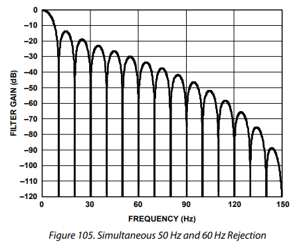
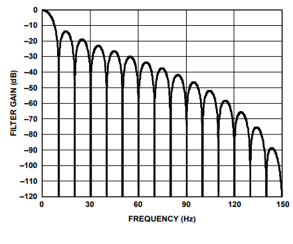
Implement reviewer's suggestions. Remove extraneous text from screenshot.

Changed region(s): [[0.1536, 0.9467, 0.9215, 1.0]]

diff --git a/papers/adi_sdg/adi_scipycon_pynotebook.rst b/papers/adi_sdg/adi_scipycon_pynotebook.rst
@@ -29,14 +29,12 @@ This tutorial is in extension of Converter Connectivity Tutorial [1]_ and associ
 A Generic Mixed Signal Chain
 ----------------------------
 
-Figure :ref:`mixmode` shows a generic signal chain typical of a precision instrumentation application, with a physical input and digital output. 
+Figure :ref:`mixmode` shows a generic signal chain typical of a precision instrumentation application, with a physical input and digital output. There are numerous background references on analog to digital converters available [5]_, and most readers will have a sense that an analog to digital converter samples an input signal at some point in time (or measures the average of a signal over some observation time), and produces a numerical representation of that signal - most often as a binary number with some value between zero and :math:`2^N - 1` where :math:`N` is the number of bits in the output word.
 
 .. figure:: media/mixed_mode_signal_chain.png
 
    In a mixed-mode signal chain, some physical phenomenon such as temperature, light intensity, pH, force, or torque is converted to an electrical parameter (resistance, current, or directly to voltage). This signal is then amplified, low-pass filtered, and digitized by an ADC, which may include internal digital filtering.
    :label:`mixmode`
-
-There are numerous background references on analog to digital converters available [5]_, and most readers will have a sense that an analog to digital converter samples an input signal at some point in time (or measures the average of a signal over some observation time), and produces a numerical representation of that signal - most often as a binary number with some value between zero and :math:`2^N - 1` where :math:`N` is the number of bits in the output word.
 
 ADC Noise Sources
 ---------------------------------------------------------
@@ -61,19 +59,20 @@ Very high resolution converters, such as the AD7124-8 that will be used as an ex
 .. figure:: media/ad7124_histograms.png
    :scale: 75 %
 
-   AD7124 output noise. At a PGA gain of 1 (left), 13 codes are represented, and the standard deviation is about 2.5 codes. While quantization is visible, thermal noise is more significant. At a PGA gain of 128 (right), 187 codes are represented, quantization noise is insignificant. Truncating one or two least-significant bits (doubling or quadrupling quantization noise) would not result in a loss of information. 
+   At a PGA gain of one (left), 13 codes are represented in the AD7124 output noise, and the standard deviation is about 2.5 codes. While quantization is visible, thermal noise is more significant. At a PGA gain of 128 (right), 187 codes are represented, quantization noise is insignificant. Truncating one or two least-significant bits (doubling or quadrupling quantization noise) would not result in a loss of information. 
    :label:`ad7124hist`
 
 Modeling and Measuring ADC noise
 --------------------------------
 
-Modeling the noise of a thermal-noise limited ADC’s is straightforward. If the noise is "well behaved" (Gaussian, as it is in Figure :ref:`ad7124hist`) and constant across the ADC’s input span, the ADC’s time-domain noise can be modelled using Numpy’s [9]_ :code:`random.normal` function , then verified by taking the standard deviation, as seen in the Model Gaussian Noise code block.
+Modeling the noise of a thermal-noise limited ADC’s is straightforward. If the noise is "well behaved" (Gaussian, as it is in Figure :ref:`ad7124hist`) and constant across the ADC’s input span, the ADC’s time-domain noise can be modelled using NumPy’s [9]_ :code:`random.normal` function , then verified by taking the standard deviation, as seen in the Model Gaussian Noise code block.
 
 .. -----------------------------------------------------|
 .. code-block:: python
 
     # Model Gaussian Noise
     # See AD7124 datasheet for noise levels per mode
+    import numpy as np
     offset = 0.000
     rmsnoise = 0.42e-6  # AD7124 noise
     noise = np.random.normal(loc=offset, scale=rmsnoise,
@@ -86,7 +85,7 @@ Figure :ref:`hwsetup` shows the general setup for testing ADC noise and filter r
 .. figure:: media/full_setup_overview.png
    :scale: 35 %
 
-   ADC noise and filter measurement setup. The ADALM2000 (M2K) is a multifunction USB test instrument with two general-purpose analog inputs and two outputs, with sample rates of 100Msps and 150Msps, respectively. A Raspberry Pi 4 running a kernel with AD7124 device driver support acts as a simple bridge between the AD7124 and a host computer.
+   The ADALM2000 is a multifunction USB test instrument with two general-purpose analog inputs and two outputs, with sample rates of 100Msps and 150Msps, respectively. It can be used as a simple signal source for measuring ADC noise bandwidth and filter response. A Raspberry Pi 4 running a kernel with AD7124 device driver support acts as a simple bridge between the AD7124 and a host computer.
    :label:`hwsetup`
 
 The AD7124 device driver falls under the industry-standard IIO framework, which has a well-established software API (including Python bindings). Application code can run locally (on the Raspberry Pi) or on a remote machine via network, serial, or USB connection. Furthermore, the pyadi-iio [10]_ abstraction layer takes care of much of the boilerplate setup required for interfacing with IIO devices, greatly simplifying the software interface. The AD7124-8 Basic Data Capture code block illustrates how to open a connection to the AD7124-8, configure it, capture a block of data, then close the connection.
@@ -117,12 +116,12 @@ The AD7124 device driver falls under the industry-standard IIO framework, which 
   print("A few buffered readings: ", data[:16])
   del my_ad7124  # Clean up
 
-With communication to the AD7124-8 established, an extremely simple, yet extremely useful test can be performed: measuring input noise directly. Simply shorting the input to an ADC and looking at the resulting distribution of ADC codes is a valuable step in characterizing a signal chain design. The AD7124 input is set to unipolar, so only positive values are valid; the test circuit shown in Figure :ref:`ad7124bias` ensures that the input is always positive.
+With communication to the AD7124-8 established, an extremely simple, yet extremely useful test can be performed: measuring input noise directly. Simply shorting the input to an ADC and looking at the resulting distribution of ADC codes is a valuable step in characterizing a signal chain design. The AD7124 input mode is set to unipolar, so only positive values are valid; the test circuit shown in Figure :ref:`ad7124bias` ensures that the input is always positive.
 
 .. figure:: media/ad7124_noise_circuit.png
    :scale: 40 %
 
-   Bias Circuit for input noise measurement. A resistor divider imposes a 1.25mV signal across the AD7124-8's input, overcoming the 15µV maximum offset voltage.
+   A resistor divider is used to generate a 1.25mV bias across the AD7124-8's input, overcoming the 15µV maximum offset voltage and ensuring that ADC readings are always positive.
    :label:`ad7124bias`
 
 Figure :ref:`warmup` shows two, 1024-point measurements. The lower (blue) trace was taken immediately after initially applying power. 
@@ -130,7 +129,7 @@ Figure :ref:`warmup` shows two, 1024-point measurements. The lower (blue) trace 
 .. figure:: media/ad7124_warmup_new.png
    :scale: 40 %
 
-   AD7124-8 Data captures with 1.25mV input. Lower trace shows "wander" after initial power-up. Upper trace shows stable readings after a half-hour warmup time.
+   Two AD7124-8 data captures are taken with a 1.25mV bias applied. The lower trace shows initial drift after power-up as the circuit warms up. The upper trace shows stable readings after a half-hour warmup time.
    :label:`warmup`
 
 The "wandering" can be due to a number of factors - the internal reference warming up, the external resistors warming up (and hence drifting), or parasitic thermocouples, where slightly dissimilar metals will produce a voltage in the presence of thermal gradients. Measured noise after warmup is approximately 565nVRMS - on par with the datasheet noise specification.
@@ -167,7 +166,7 @@ The total noise from Figure :ref:`warmup` after warmup was 565nV at a data rate 
 
 The ADC can now be directly included in the signal chain noise analysis, and leads to a guideline for optimizing the signal chain's gain:
 
-Increase the gain just to the point where the noise density of the last stage before the ADC is a bit higher than that of the ADC, then stop. Don’t bother increasing the signal chain gain any more - you’re just amplifying noise, and decreasing the allowable range of inputs.
+Increase the gain just to the point where the noise density of the last stage before the ADC is a bit higher than that of the ADC, then stop. Don’t bother increasing the signal chain gain any more - you’re just amplifying noise and decreasing the allowable range of inputs.
 
 This runs counter to the conventional wisdom of "filling" the ADC’s input range. There may be benefit to using more of an ADC’s input range if there are steps or discontinuities in the ADC’s transfer function, but for "well behaved" ADCs (most sigma delta ADCs and modern, high-resolution Successive Approximation Register (SAR) ADCs), optimizing by noise is the preferred approach.
 
@@ -180,7 +179,7 @@ The AD7124-8 is a sigma-delta ADC, in which a modulator produces a high sample r
 .. figure:: media/ad7124_m2k_circuit.png
    :scale: 40 %
 
-   AD7124 - m2k Connections for Filter Response Measurement. The 1k resistor protects the AD7124-8 if a malfunction occurs, as the m2k output range is -5V to +5V, beyond the -0.3V to 3.6V absolute maximum limits of the converter.
+   An ADALM2000 waveform generator is used to generate a range of sinewave frequencies, allowing the AD7124-8's filer response to be measured directly. While the script sets the sinewave amplitude and offset to a safe level, a 1k resistor protects the AD7124-8 in the event of a malfunction. (The ADALM2000 output voltage range is -5V to +5V, while the AD7124-8 absolute maximum limits are -0.3V and +3.6V.)
    :label:`ad7124m2k`
 
 The AD7124-8 Filter Response code block will set the ADALM2000’s waveform generator to generate a sinewave at 10Hz, capture 1024 data points, calculate the RMS value, then append the result to a list. (The :code:`send_sinewave` and :code:`capture_data` are utility functions that send a sinewave to the ADALM2000 and receive a block of data from the AD7124, respectively [2]_.) It will then step through frequencies up to 250Hz, then plot the result as shown in Figure :ref:`measresp`.
@@ -189,6 +188,8 @@ The AD7124-8 Filter Response code block will set the ADALM2000’s waveform gene
 .. code-block:: python
 
   # AD7124-8 Filter Response
+  import numpy as np
+  import matplotlib.pyplot as plt
   resp = []
   freqs = np.linspace(1, 121, 100, endpoint=True)
   for freq in freqs:
@@ -215,7 +216,7 @@ The AD7124-8 Filter Response code block will set the ADALM2000’s waveform gene
 .. figure:: media/ad7124_filter_resp_measured_new.png
    :scale: 40 %
 
-   AD7124 Measured Filter Response, 64sps SINC4 mode, showing the filter's passband, first lobe, and first two nulls.
+   A measurement of the AD7124 Filter Response in 64sps, SINC4 mode shows the filter's passband, first lobe, and first two nulls.
    :label:`measresp`
 
 While measuring high attenuation values requires a quieter and lower distortion signal generator, the response of the first few major "lobes" is apparent with this setup.
@@ -232,9 +233,9 @@ The AD7124's filters all have frequency responses that are combinations of vario
 Figure :ref:`10hznotch` from Ref. [8]_ shows the AD7124-8’s 10Hz notch filters. Various combinations of higher-order SINC3 and SINC4 filters are also available. 
 
 .. figure:: media/ad7124_filter_10.png
-   :scale: 60 %
+   :scale: 80 %
 
-   AD7124-8 10Hz notch filter frequency response. Magnitude response is SINC1, Impulse response is simply an unweighted (rectangular) average of samples over a 100ms interval.
+   The AD7124-8 10Hz notch filter has a SINC1 magnitude response; the filter's impulse response is simply an unweighted (rectangular) average of samples over a 100ms time interval.
    :label:`10hznotch`
 
 The simultaneous 50Hz/60Hz rejection filter shown in Figure :ref:`5060hzflt`, from Ref. [8]_ is a nontrivial example. This filter is intended to strongly reject noise from A.C. power lines, which is either 50Hz (as in Europe) or 60Hz (as in the United States).
@@ -242,7 +243,7 @@ The simultaneous 50Hz/60Hz rejection filter shown in Figure :ref:`5060hzflt`, fr
 .. figure:: media/simult_50_60_reverse_eng.png
    :scale: 50 %
 
-   AD7124-8 50/60Hz rejection filter response. Response is the combination of a 50Hz, SINC3 filter and a 60Hz, SINC1 filter.
+   The AD7124-8 50/60Hz rejection filter response is the combination of a 50Hz, SINC3 filter and a 60Hz, SINC1 filter.
    :label:`5060hzflt`
 
 Higher order SINC filters can be generated by convolving SINC1 filters. For example, convolving two SINC1 filters (with a rectangular impulse response in time) will result in a triangular impulse response, and a corresponding SINC2 frequency response. The AD7124 Filters code block generates a SINC3 filter with a null at 50Hz, then adds a fourth filter with a null at 60Hz.
@@ -251,6 +252,7 @@ Higher order SINC filters can be generated by convolving SINC1 filters. For exam
 .. code-block:: python
 
     # AD7124 Filters
+    import numpy as np
     f0 = 19200
     # Calculate SINC1 oversample ratios for 50, 60Hz
     osr50 = int(f0/50)  # 384
@@ -274,30 +276,29 @@ The resulting impulse (time domain) shapes of the filters are shown in Figure :r
 .. figure:: media/rev_eng_filters_all_new.png
    :scale: 40 %
 
-   Generated Filter Impulse Responses. Repeatedly convolving rectangular impulses produces triangular, then "Gaussian-like" impulse responses.
+   Repeatedly convolving rectangular impulse responses produces triangular, then "Gaussian-like" impulse responses.
    :label:`fltimpluse`
 
 And finally, the frequency response can be calculated using NumPy’s  freqz function, as seen in the AD7124 Frequency Response code block. The response is shown in Figure :ref:`fltresp`.
 
+.. figure:: media/ad7124_calculated_50_60_fresp_new.png
+   :scale: 40 %
+
+   Convolving a SINC3, 50Hz notch filter with a SINC1, 60Hz filter produces a composite response that strongly rejects both 50Hz and 60Hz.
+   :label:`fltresp`
+   
 .. -----------------------------------------------------|
 .. code-block:: python
 
     # AD7124 Frequency Response 
-
+    import numpy as np
+    from scipy import signal
     f0 = 19200
     w, h = signal.freqz(filt_50_60_rej, 1, worN=16385,
                         whole = False, fs = f0)
     freqs = w * f0/(2.0*np.pi)
     hmax = abs(max(h))  # Normalize to unity
     response_dB = 20.0 * np.log10(abs(h)/hmax)
-
-
-.. figure:: media/ad7124_calculated_50_60_fresp_new.png
-   :scale: 40 %
-
-   Calculated 50/60Hz Rejection Filter Response. The composite response in the frequency domain is the product of the individual 50Hz and 60Hz filters.
-   :label:`fltresp`
-
 
 Resistance is Futile: A Fundamental Sensor Limitation
 -----------------------------------------------------
@@ -323,7 +324,7 @@ A sensor’s datasheet may specify a low output impedance (often close to zero O
 .. figure:: media/generic_buffered_sensor.png
    :scale: 110 %
 
-   Conceptual Sensor with Buffered Output. Noise is buffered along with the signal.
+   Sensors often include an internal buffer to simplify connection to downstream circuits. While the output impedance is low (often approaching zero Ohms), noise from high impedance sensing elements is buffered along with the signal.
    :label:`genericsensor`
 
 There are numerous other sensor limitations - mechanical, chemical, optical, each with their own theoretical limits and whose effects can be modelled and compensated for later. But noise is the one imperfection that cannot. 
@@ -339,17 +340,17 @@ A calibrated noise generator functions as a "world’s worst sensor", that emula
 The OP482 is an ultralow bias current amplifier with correspondingly low current noise, and a voltage noise low enough that the noise due to a 1M input impedance is dominant. Configured with a gain of 2121, the output noise is 269 µV/:math:`\sqrt{Hz}`. 
 
 .. figure:: media/noise_source_schematic.png
-   :scale: 75 %
+   :scale: 80 %
 
-   Laboratory Noise Source. A 1M resistor serves as a noise generator, which is then amplified to a usable level by a low-noise operational amplifier.
+   A 1M resistor serves as a predictable noise source, which is then amplified to a usable level by a low-noise operational amplifier.
    :label:`ananoisesrc`
 
 The noise source was verified with an ADALM2000 USB instrument, using the Scopy [11]_ GUI’s spectrum analyzer, shown in Figure :ref:`ngoutput`.
 
 .. figure:: media/resistor_based_noise_source_nsd_scopy.png
-   :scale: 40 %
+   :scale: 35 %
 
-   Noise Generator Output, showing a usable noise bandwidth of approximately 10kHz.
+   The output of the resistor-based laboratory noise generator has a usable bandwidth of approximately 10kHz.
    :label:`ngoutput`
 
 Under the analyzer settings shown, the ADALM2000 noise floor is 40µV/:math:`\sqrt{Hz}`, well below the 269 µV/:math:`\sqrt{Hz}` of the noise source.
@@ -360,6 +361,7 @@ While Scopy is useful for single, visual measurements, the functionality can be 
 .. code-block:: python
 
     # Noise Source Measurement
+    import numpy as np
     navgs = 32  # Avg. 32 runs to smooth out data
     ns = 2**16
     vsd = np.zeros(ns//2+1)  # /2 for onesided
@@ -383,9 +385,9 @@ LTspice  is a freely available, general-purpose analog circuit simulator that ca
 Figure :ref:`ngltspice` shows a noise simulation of the analog noise generator, with close agreement to experimental results. An op-amp with similar properties to the OP482 was used for the simulation.
 
 .. figure:: media/ltspice_noise_source.png
-   :scale: 90 %
+   :scale: 80 %
 
-   LTspice simulation of Laboratory Noise Source, showing approximately the same usable bandwidth as the measured circuit.
+   An LTspice simulation of the laboratory noise source shows approximately the same usable bandwidth as the measured circuit.
    :label:`ngltspice`
 
 Figure :ref:`ngltspice` circuit’s noise is fairly trivial to model, given that it is constant for some bandwidth (in which a signal of interest would lie), above which it rolls off with approximately a first order lowpass response. Where this technique comes in handy is modeling non-flat noise floors, either due to higher order analog filtering, or active elements themselves. The classic example is the "noise mountain" that often exists in autozero amplifiers such as the LTC2057, as seen in Figure :ref:`ltc2057nsd` , from Ref. [13]_.
@@ -393,7 +395,7 @@ Figure :ref:`ngltspice` circuit’s noise is fairly trivial to model, given that
 .. figure:: media/inputvoltage_noise_spectrum.png
    :scale: 30 %
 
-   LTC2057 noise spectrum. Noise density is flat at low frequencies, with a peak at half the internal oscillator's 100kHz frequency.
+   The LTC2057 noise density is flat at low frequencies, with a peak at 50kHz (half of the internal oscillator's 100kHz frequency).
    :label:`ltc2057nsd`
 
 
@@ -403,7 +405,7 @@ frequencies in the analysis vector are simulated. In this case, the noise simula
 .. figure:: media/lt2057_g10_noise_simulation.png
    :scale: 90 %
 
-   LTC2057, G=+10 output noise simulation. LTspice provides simple tools for integrating noise, but results of any simulation can be exported and imported into Python for further analysis.
+   LTspice is used to simulate the output nosie of an LTC2057 in a noninverting gain of +10 configuration. LTspice provides simple tools for integrating noise, but results of any simulation can be exported and imported into Python for further analysis.
    :label:`ltc2057ltspicensd`
 
 In order to determine the impact of a given band of noise on a signal (signal to noise ratio) the noise is root-sum-square integrated across the bandwidth of interest. In LTspice, plotted parameters can be integrated by setting the plot limits, then control-clicking the parameter label. The total noise over the entire 2.048MHz simulation is 32µVRMS. A function to implement this operation in Python is shown in the Integrate Power Spectral Density code block. 
@@ -412,6 +414,7 @@ In order to determine the impact of a given band of noise on a signal (signal to
 .. code-block:: python
 
     def integrate_psd(psd, bw):
+        import numpy as np
         int_psd_sqd = np.zeros(len(psd))
         integrated_psd = np.zeros(len(psd))
         int_psd_sqd[0] = psd[0]**2.0
@@ -433,6 +436,7 @@ Expanding on the functionality of the purely analog noise generator above, it is
 .. code-block:: python
 
   def time_points_from_freq(freq, fs=1, density=False):
+      import numpy as np
       N = len(freq)
       rnd_ph_pos = (np.ones(N-1, dtype=np.complex)*
                     np.exp(1j*np.random.uniform
@@ -456,6 +460,7 @@ This function can be verified by controlling one ADALM2000 through a libm2k scri
 .. code-block:: python
 
     # Push Noise Time-series to ADALM2000
+    import numpy as np
     n = 8192
     # create some "bands" of  1mV/rootHz noise
     bands = np.concatenate((np.ones(n//16),
@@ -480,7 +485,7 @@ The rolloff above ~20kHz is the SINC rolloff of the DAC. If the DAC is capable o
 .. figure:: media/m2k_noise_bands_new.png
    :scale: 35 %
 
-   Verifying arbitrary noise generator. Deep notches between noise bands expose the signal generator's noise floor, and show that an arbitrary noise profile can be accurately generated.
+   The Scopy spectrum analyzer is used to verify the arbitrary noise generator. Deep notches between noise bands expose the analyzer's noise floor, showing that an arbitrary noise profile can be accurately generated.
    :label:`m2k-noise-bands`
 
 This noise generator can be used in conjunction with the pure analog
@@ -503,6 +508,7 @@ The ENBW Example code block accepts a filter magnitude response, and returns the
 .. -----------------------------------------------------|
 .. code-block:: python
 
+    import numpy as np
     def arb_enbw(fresp, bw):
         int_frsp_sqd = np.zeros(len(fresp))
         int_frsp_sqd[0] = fresp[0]**2.0
@@ -511,20 +517,15 @@ The ENBW Example code block accepts a filter magnitude response, and returns the
                                 fresp[i-1] ** 2)
         return int_frsp_sqd[len(int_frsp_sqd)-1]*bw
 
-    fmax = 200  # Hz
-    numpoints = 65536
     fc = 1  # Hz
-    bw_per_point = fmax/numpoints
-    frst_ord = np.ndarray(numpoints, dtype=float)
+    bw_per_point = 200/65536  # Hz/record length
+    frst_ord = np.ndarray(65536, dtype=float)
     # Magnitude = 1/SQRT(1 + (f/fc)^2))
-    for i in range(numpoints):
+    for i in range(65536):
         frst_ord[i] = (1.0 /
                        (1.0 +
                         (i*bw_per_point)**2.0)**0.5)
     fo_enbw = arb_enbw(frst_ord, bw_per_point)
-
-    predicted_ENBW = (fc*np.pi/2)
-    actual_ENBW = fo_enbw
 
 This function can be used to calculate the ENBW of an arbitrary filter response, including the AD7124's internal filters. The frequency response of the AD7124 SINC4 filter, 128sps sample rate can be calculated similar to the previous 50/60Hz rejection filter example. The arb_anbw function returns a ENBW of about 31Hz.
 
@@ -534,7 +535,7 @@ The ADALM2000 noise generator can be used to validate this result. Setting the t
 .. figure:: media/ad7124_noise_blast_new.png
    :scale: 70 %
 
-   Driving the AD7124 with 1mV/:math:`\sqrt{Hz}`. A qualitative reduction in noise is apparent; 426mV peak-to-peak noise at the ADC input results in approximately 25mV peak-to-peak noise at the ADC output. The 5.1mVRMS total output noise is close to the predicted 5.69mVRMS, given the 1mV/:math:`\sqrt{Hz}` noise density and 31Hz ENBW of the ADC's filter.
+   A 1mV/:math:`\sqrt{Hz}` noise band is driven into the AD7124-8 input. A qualitative reduction in noise is apparent; 426mV peak-to-peak noise at the ADC input results in approximately 25mV peak-to-peak noise at the ADC output. The 5.1mVRMS total output noise is close to the predicted 5.69mVRMS, given the 1mV/:math:`\sqrt{Hz}` noise density and 31Hz ENBW of the ADC's filter.
    :label:`noiseblast`
 
 Conclusion
